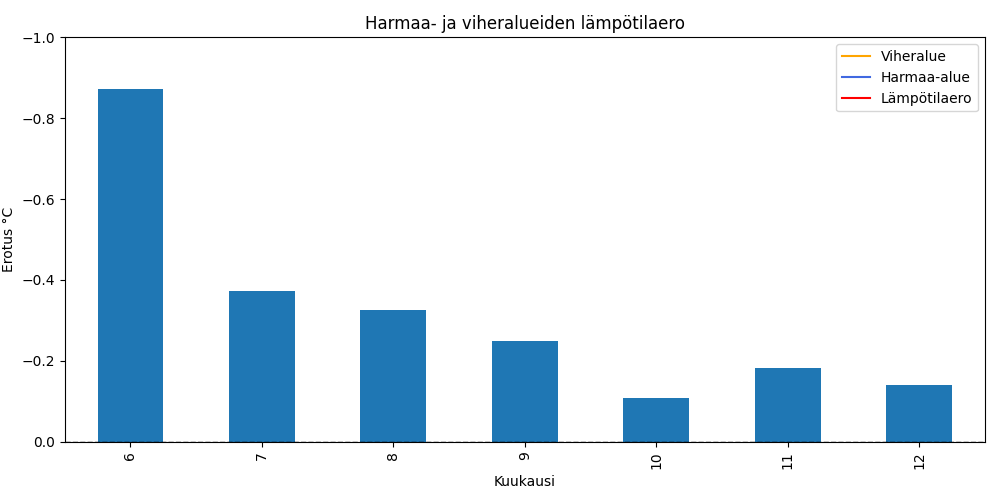
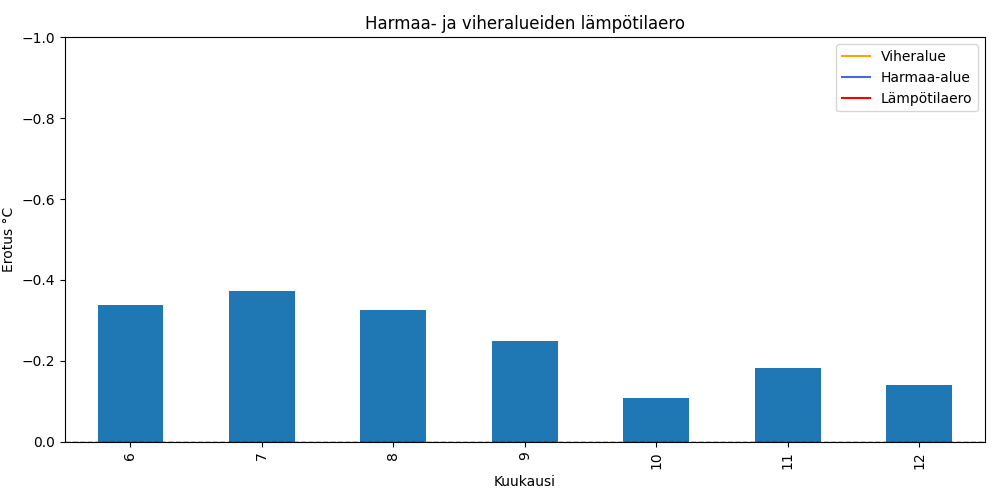
Change Mäkelänkatu to Vallila, update sql scripts

Changed region(s): [[0.093, 0.18, 0.186, 0.63]]

diff --git a/server/src/analysis/tag_analysis.py b/server/src/analysis/tag_analysis.py
@@ -39,7 +39,6 @@ def plot_diff_bar(df1, df2, title):
     mean2 = df2.groupby("month")["temperature"].mean()
 
     diff = mean1 - mean2
-    diff = diff.drop(index=5)
 
     diff.plot(kind="bar", ylim=(-1, 1), figsize=(10, 5), zorder=3)
     plt.grid(True, zorder=0)
@@ -54,10 +53,10 @@ def plot_diff_bar(df1, df2, title):
 
 
 async def avg_daily_temps_sun_shade():
-    dfA = await filter_location_with_tag("Mäkelänkatu", "aurinko")
+    dfA = await filter_location_with_tag("Vallila", "aurinko")
     avg_sun = get_avg_temp(dfA)
 
-    dfV = await filter_location_with_tag("Mäkelänkatu", "varjo")
+    dfV = await filter_location_with_tag("Vallila", "varjo")
     avg_shade = get_avg_temp(dfV)
 
     # plt1 = plot_data(
@@ -87,7 +86,6 @@ def plot_area_diff_bar(df1, df2, title):
     mean2 = df2.groupby("month")["temperature"].mean()
 
     diff = mean1 - mean2
-    diff = diff.drop(index=5)
 
     diff.plot(kind="bar", ylim=(0, -1), figsize=(10, 5))
     plt.title(title)
@@ -97,8 +95,8 @@ def plot_area_diff_bar(df1, df2, title):
 
 
 async def area_daily_temp_diff():
-    dfGreen = await filter_location_with_tag("Mäkelänkatu", "viheralue")
-    dfGray = await filter_location_with_tag("Mäkelänkatu", "harmaa-alue")
+    dfGreen = await filter_location_with_tag("Vallila", "viheralue")
+    dfGray = await filter_location_with_tag("Vallila", "harmaa-alue")
 
     avg_green = get_avg_temp(dfGreen)
     avg_gray = get_avg_temp(dfGray)

diff --git a/server/src/utils/filter_tag.py b/server/src/utils/filter_tag.py
@@ -3,7 +3,7 @@ from database import get_db
 from models import Sensor, SensorTag
 from sqlmodel import select
 
-from .get_data_util import get_koivukyla, get_laajasalo, get_makelankatu
+from .get_data_util import get_koivukyla, get_laajasalo, get_vallila
 
 # Get ids with the specified tag
 # async def sensors_with_tag(tag):
@@ -39,8 +39,8 @@ async def filter_location_with_tag(location, tag):
     match location:
         case "Koivukylä":
             df = await get_koivukyla()
-        case "Mäkelänkatu":
-            df = await get_makelankatu()
+        case "Vallila":
+            df = await get_vallila()
         case "Laajasalo":
             df = await get_laajasalo()
         case _:

diff --git a/server/src/utils/get_data_util.py b/server/src/utils/get_data_util.py
@@ -6,13 +6,13 @@ from sqlmodel import select
 
 
 # Fetch and filter makelankatu data
-async def get_makelankatu():
+async def get_vallila():
     df = pd.read_csv(
         "https://bri3.fvh.io/opendata/makelankatu/makelankatu-2024.csv.gz",
         parse_dates=["time"],
     )
 
-    df = await filter_install_date(df, "Mäkelänkatu")
+    df = await filter_install_date(df, "Vallila")
 
     return df
 
@@ -42,7 +42,7 @@ async def get_koivukyla():
 
 
 async def get_all_locations():
-    dfM = await get_makelankatu()
+    dfM = await get_vallila()
     dfK = await get_koivukyla()
     dfL = await get_laajasalo()
 

diff --git a/server/src/analysis/all_sensors_graph.py b/server/src/analysis/all_sensors_graph.py
@@ -7,7 +7,7 @@ from utils.get_data_util import (
     get_all_locations,
     get_koivukyla,
     get_laajasalo,
-    get_makelankatu,
+    get_vallila,
 )
 
 
